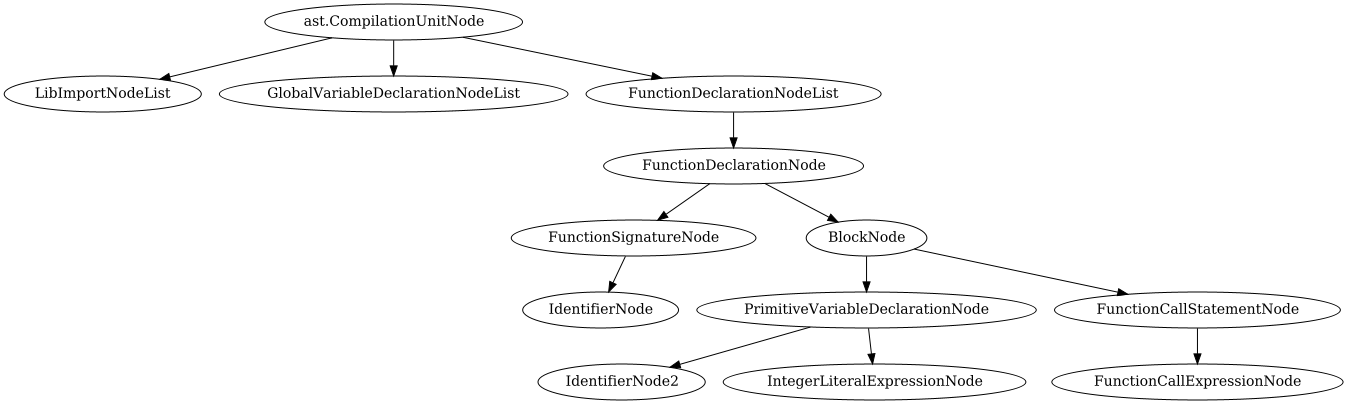
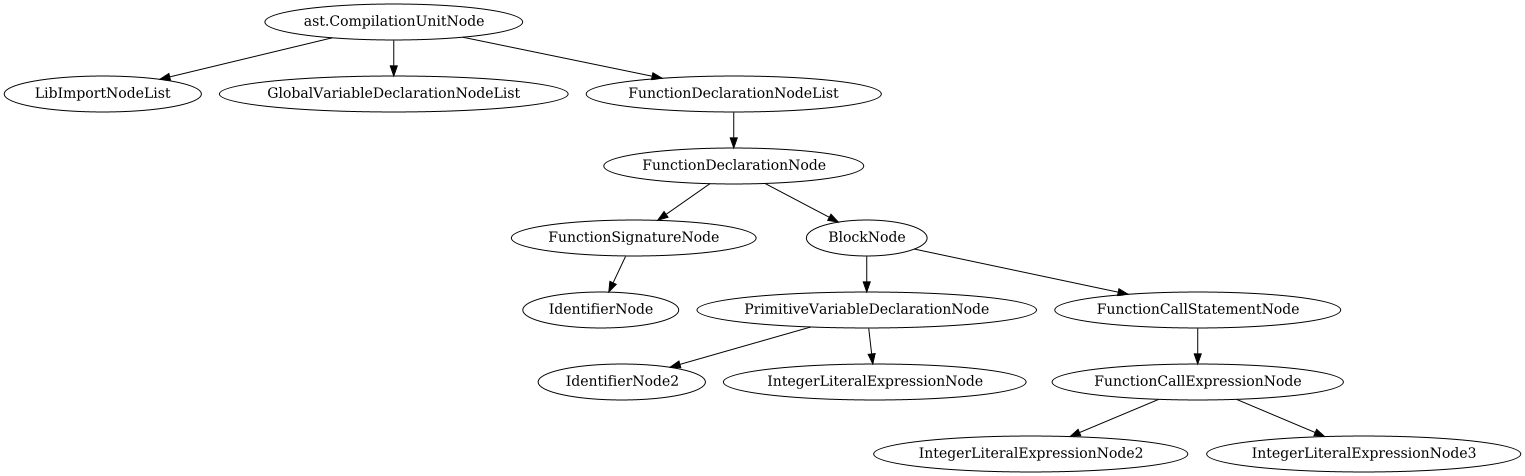
Function not declared error added

Changed region(s): [[0.0, 0.0, 0.9978, 1.0]]

diff --git a/src/main/java/passes/semantic/SemanticAnalyzerPassVisitor.java b/src/main/java/passes/semantic/SemanticAnalyzerPassVisitor.java
@@ -4,10 +4,7 @@ import app.SimplySystem;
 import ast.*;
 import ast.util.enums.DataType;
 import errors.arithmatic.*;
-import errors.function.DuplicateFunctionDeclarationError;
-import errors.function.NotImportedLibraryReference;
-import errors.function.ReturnTypeMisMatchError;
-import errors.function.StartMethodNotExistError;
+import errors.function.*;
 import errors.library.DuplicateLibraryImportSimplyError;
 import errors.library.UndefinedLibraryImportError;
 import errors.variable.DuplicateVariableDeclarationError;
@@ -222,6 +219,21 @@ public class SemanticAnalyzerPassVisitor extends BaseAstVisitor<Object> {
         }
 
         // TODO: check function existence
+        var funcName = node.funcName;
+        var params = node.parameterList;
+        var paramDataTypeList = new ArrayList<DataType>();
+        params.forEach(p -> paramDataTypeList.add(getExpressionDataType(p).dataType()));
+
+        var sfm = new SimplyFunctionModel()
+                .setLibName(node.libRef)
+                .setFuncName(funcName)
+                .setParams(paramDataTypeList);
+
+        if(!universalJavaLibraryServiceProvider.isExist(sfm)){
+            SimplySystem.exit(new FunctionNotDeclared(funcName, paramDataTypeList));
+        }
+
+
         return null;
     }
 

diff --git a/src/main/java/errors/function/FunctionNotDeclared.java b/src/main/java/errors/function/FunctionNotDeclared.java
@@ -1,0 +1,41 @@
+package errors.function;
+
+import ast.util.enums.DataType;
+import errors.SimplyError;
+
+import java.util.List;
+import java.util.StringJoiner;
+
+public class FunctionNotDeclared implements SimplyError {
+
+    private String functionName;
+    private List<DataType> params;
+
+    public FunctionNotDeclared(String functionName, List<DataType> params) {
+        this.functionName = functionName;
+        this.params = params;
+    }
+
+    @Override
+    public String getErrorMessage() {
+        var prefix = functionName + "(";
+        var sj = new StringJoiner(",", prefix, ")");
+        params.forEach(p -> sj.add(p.getDatatype()));
+        return "Function " + sj.toString() + " not declared";
+    }
+
+    @Override
+    public String getErrorType() {
+        return null;
+    }
+
+    @Override
+    public String getErrorDescription() {
+        return null;
+    }
+
+    @Override
+    public int getLineNumber() {
+        return 0;
+    }
+}

diff --git a/src/main/java/universalJavaPortal/SimplyFunctionModel.java b/src/main/java/universalJavaPortal/SimplyFunctionModel.java
@@ -9,7 +9,7 @@ public class SimplyFunctionModel {
     private String libName;
     private String funcName;
     private DataType returnType;
-    private final List<DataType> params;
+    private List<DataType> params;
 
     public SimplyFunctionModel() {
         this.params = new ArrayList<>();
@@ -39,6 +39,11 @@ public class SimplyFunctionModel {
 
     public SimplyFunctionModel setReturnType(DataType returnType) {
         this.returnType = returnType;
+        return this;
+    }
+
+    public SimplyFunctionModel setParams(List<DataType> params){
+        this.params = params;
         return this;
     }
 
